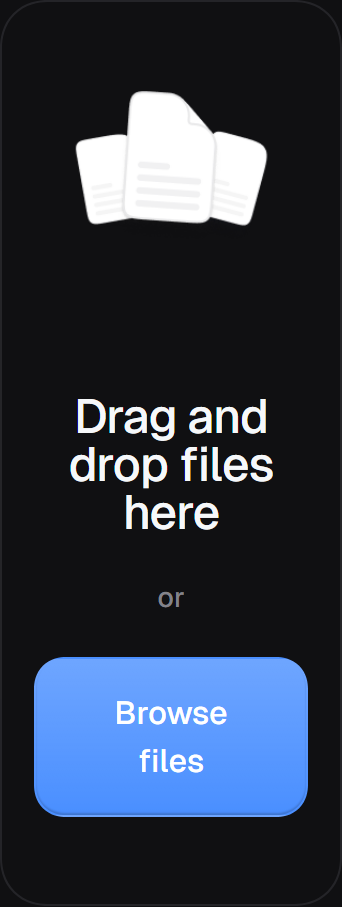
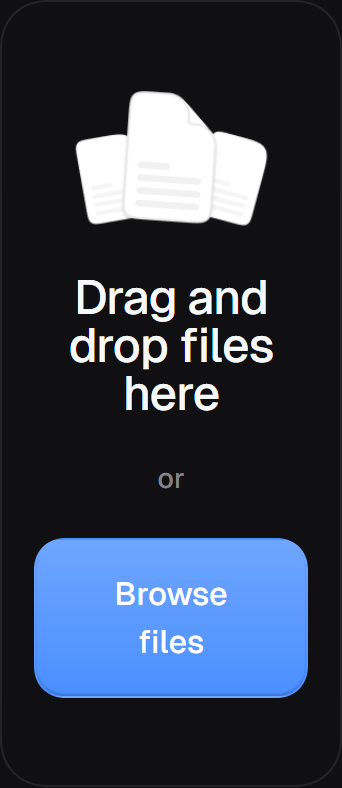
fix(file-upload): preserve selection modes and responsive artwork

Changed region(s): [[0.0877, 0.335, 0.9064, 0.8528], [0.2047, 0.0914, 0.7895, 0.3046], [0.0877, 0.8528, 0.9064, 0.9137]]

diff --git a/packages/core/src/components/file-upload/behavior.ts b/packages/core/src/components/file-upload/behavior.ts
@@ -1,9 +1,42 @@
 import * as upload from '@zag-js/file-upload';
+import {
+  getAcceptAttrString,
+  isFileEqual,
+  isValidFileSize,
+  isValidFileType,
+} from '@zag-js/file-utils';
 import type { MachineModule, SchemaOf } from '../../behaviors/types.js';
 
 export type { FileChangeDetails, FileRejectDetails, FileRejection } from '@zag-js/file-upload';
-export type FileUploadSchema = SchemaOf<upload.Service>;
+type ZagFileUploadSchema = SchemaOf<upload.Service>;
+export type FileUploadSchema = Omit<ZagFileUploadSchema, 'props'> & {
+  props: ZagFileUploadSchema['props'] & { multiple?: boolean };
+};
 export type FileUploadApi = upload.Api & { resetFiles(files: File[]): void; getFiles(): File[] };
+const directories = new WeakSet<File>();
+const fileIdentities = new WeakMap<File, number>();
+let nextFileIdentity = 0;
+function fileIdentity(file: File): number {
+  let identity = fileIdentities.get(file);
+  if (identity === undefined) {
+    identity = ++nextFileIdentity;
+    fileIdentities.set(file, identity);
+  }
+  return identity;
+}
+
+function droppedFiles(transfer: DataTransfer): File[] {
+  const items = Array.from(transfer.items).filter((item) => item.kind === 'file');
+  if (!items.length) return Array.from(transfer.files);
+  return items.flatMap((item) => {
+    const file = item.getAsFile();
+    if (!file) return [];
+    // Entry metadata distinguishes directories from legitimate empty files.
+    // No traversal or file content access is needed for this selection control.
+    if (item.webkitGetAsEntry?.()?.isDirectory) directories.add(file);
+    return [file];
+  });
+}
 
 /** Keep the browser's submitted FileList equal to the accepted selection, including
  * cancelled pickers and controlled requests the application did not accept. */
@@ -27,6 +60,7 @@ export function fileUploadMessage(errors: readonly string[]): string {
           FILE_TOO_SMALL: 'File is too small.',
           TOO_MANY_FILES: 'Too many files.',
           FILE_EXISTS: 'File is already selected.',
+          DIRECTORY_NOT_SUPPORTED: 'Folders cannot be selected. Choose files instead.',
         })[error] ?? 'File could not be selected.',
     )
     .join(' ');
@@ -70,6 +104,63 @@ export function focusFilePicker(container: ParentNode): void {
 export const fileUploadBehavior: MachineModule<FileUploadSchema, FileUploadApi> = {
   machine: {
     ...upload.machine,
+    props(params) {
+      const props = upload.machine.props?.(params);
+      if (!props) throw new Error('File Upload machine must normalize its props');
+      return {
+        ...props,
+        multiple: params.props.multiple ?? false,
+        validate(file, details) {
+          return directories.has(file)
+            ? ['DIRECTORY_NOT_SUPPORTED']
+            : (props.validate?.(file, details) ?? null);
+        },
+      };
+    },
+    computed: {
+      acceptAttr: ({ prop }) => getAcceptAttrString(prop('accept')),
+      multiple: ({ prop }) => prop('multiple') ?? false,
+    },
+    context({ prop, bindable, getContext }) {
+      return {
+        acceptedFiles: bindable(() => ({
+          defaultValue: prop('defaultAcceptedFiles'),
+          value: prop('acceptedFiles'),
+          // A replacement File may have the same metadata and different contents.
+          isEqual: (a, b) => a.length === b?.length && a.every((file, index) => file === b[index]),
+          hash: (files) => files.map(fileIdentity).join(','),
+          onChange(files) {
+            prop('onFileAccept')?.({ files });
+            prop('onFileChange')?.({
+              acceptedFiles: files,
+              rejectedFiles: getContext().get('rejectedFiles'),
+            });
+          },
+        })),
+        rejectedFiles: bindable<upload.FileRejection[]>(() => ({
+          defaultValue: [],
+          isEqual: (a, b) =>
+            a.length === b?.length &&
+            a.every(
+              (item, index) =>
+                item.file === b[index]?.file &&
+                item.errors.length === b[index]?.errors.length &&
+                item.errors.every((error, i) => error === b[index]?.errors[i]),
+            ),
+          onChange(files) {
+            prop('onFileReject')?.({ files });
+            prop('onFileChange')?.({
+              acceptedFiles: getContext().get('acceptedFiles'),
+              rejectedFiles: files,
+            });
+          },
+        })),
+        transforming: bindable(() => ({ defaultValue: false })),
+      };
+    },
+    watch({ track, context, action }) {
+      track([() => context.hash('acceptedFiles')], () => action(['syncInputElement']));
+    },
     on: {
       ...upload.machine.on,
       'LAB.RESET': { actions: ['resetSelection'] },
@@ -78,6 +169,43 @@ export const fileUploadBehavior: MachineModule<FileUploadSchema, FileUploadApi> 
       ...upload.machine.implementations,
       actions: {
         ...upload.machine.implementations?.actions,
+        setEventFiles({ context, prop, event }) {
+          const previous = context.get('acceptedFiles');
+          const accepted: File[] = [];
+          const rejected: upload.FileRejection[] = [];
+          const multiple = prop('multiple');
+          for (const file of event.files as File[]) {
+            const [, typeError] = isValidFileType(file, getAcceptAttrString(prop('accept')));
+            const [, sizeError] = isValidFileSize(file, prop('minFileSize'), prop('maxFileSize'));
+            const errors: upload.FileError[] = [];
+            if (typeError) errors.push(typeError);
+            if (sizeError) errors.push(sizeError);
+            errors.push(
+              ...(prop('validate')?.(file, {
+                acceptedFiles: previous,
+                rejectedFiles: context.get('rejectedFiles'),
+              }) ?? []),
+            );
+            if (
+              multiple &&
+              (previous.some((other) => isFileEqual(other, file)) ||
+                accepted.some((other) => isFileEqual(other, file)))
+            )
+              errors.push('FILE_EXISTS');
+            if (errors.length) rejected.push({ file, errors });
+            else accepted.push(file);
+          }
+          if (
+            (multiple ? previous.length : 0) + accepted.length >
+            (multiple ? prop('maxFiles') : 1)
+          ) {
+            rejected.push(...accepted.map((file) => ({ file, errors: ['TOO_MANY_FILES'] })));
+            accepted.length = 0;
+          }
+          if (accepted.length)
+            context.set('acceptedFiles', multiple ? [...previous, ...accepted] : accepted);
+          context.set('rejectedFiles', rejected);
+        },
         resetSelection({ context, event }) {
           context.set('acceptedFiles', event.files);
           context.set('rejectedFiles', []);
@@ -136,9 +264,7 @@ export const fileUploadBehavior: MachineModule<FileUploadSchema, FileUploadApi> 
                       if (!mutable() || !service.prop('allowDrop')) return;
                       event.preventDefault();
                       event.stopPropagation();
-                      // FileList is the standard contract for ordinary files. Entry APIs
-                      // are only necessary for directory traversal, which is not exposed.
-                      const files = Array.from(event.dataTransfer.files);
+                      const files = droppedFiles(event.dataTransfer);
                       service.send({ type: 'DROPZONE.DRAG_LEAVE' });
                       if (files.length) service.send({ type: 'FILE.SELECT', files });
                     },

diff --git a/apps/docs/tests/file-upload.spec.ts b/apps/docs/tests/file-upload.spec.ts
@@ -1,3 +1,5 @@
+import { mkdir, writeFile } from 'node:fs/promises';
+import { join } from 'node:path';
 import AxeBuilder from '@axe-core/playwright';
 import { expect, test } from '@playwright/test';
 
@@ -7,6 +9,113 @@ test.beforeEach(async ({ page }) => {
 });
 for (const renderer of ['lit', 'react'] as const) {
   const form = renderer === 'lit' ? '#lit' : '#react-form';
+  test(`${renderer}: multiple limit one appends while single selection replaces same-metadata files`, async ({
+    page,
+  }) => {
+    await page.evaluate((renderer) => {
+      const props = { multiple: true, maxFiles: 1 };
+      if (renderer === 'lit') Object.assign(window.fileUploadFixture.lit, props);
+      else window.fileUploadFixture.updateReact(props);
+    }, renderer);
+    const scope = page.locator(form);
+    const input = scope.locator('input[type=file]');
+    await input.setInputFiles({
+      name: 'first.txt',
+      mimeType: 'text/plain',
+      buffer: Buffer.from('first'),
+    });
+    await expect(scope.locator('.lab-upload-name')).toHaveText('first.txt');
+    await input.setInputFiles({
+      name: 'second.txt',
+      mimeType: 'text/plain',
+      buffer: Buffer.from('second'),
+    });
+    await expect(scope.getByRole('status').filter({ hasText: 'Too many files' })).toBeVisible();
+    await expect(scope.locator('.lab-upload-name')).toHaveText('first.txt');
+    await page.evaluate((renderer) => {
+      if (renderer === 'lit') window.fileUploadFixture.lit.multiple = false;
+      else window.fileUploadFixture.updateReact({ multiple: false });
+    }, renderer);
+    await input.setInputFiles({
+      name: 'report.txt',
+      mimeType: 'text/plain',
+      buffer: Buffer.from('A'),
+    });
+    await expect(scope.locator('.lab-upload-name')).toHaveText('report.txt');
+    const picker = page.waitForEvent('filechooser');
+    await scope.getByRole('button', { name: 'Choose File: report.txt' }).click();
+    await (await picker).setFiles({
+      name: 'report.txt',
+      mimeType: 'text/plain',
+      buffer: Buffer.from('B'),
+    });
+    await expect
+      .poll(() =>
+        scope.evaluate(async (el) => {
+          const file = new FormData(el as HTMLFormElement).get('files') as File;
+          return [file.name, file.size, await file.text()];
+        }),
+      )
+      .toEqual(['report.txt', 1, 'B']);
+  });
+  test(`${renderer}: real directory drop is rejected while an empty ordinary file is accepted`, async ({
+    page,
+    browserName,
+  }, testInfo) => {
+    test.skip(
+      browserName !== 'chromium',
+      'Real filesystem drag injection is a Chromium CDP facility.',
+    );
+    const directory = testInfo.outputPath('drop-assets');
+    await mkdir(directory, { recursive: true });
+    const emptyFile = join(directory, 'empty.txt');
+    await writeFile(emptyFile, '');
+    await page.evaluate((renderer) => {
+      const props = { accept: '', multiple: true, view: 'dropzone' as const };
+      if (renderer === 'lit') Object.assign(window.fileUploadFixture.lit, props);
+      else window.fileUploadFixture.updateReact(props);
+    }, renderer);
+    const scope = page.locator(form);
+    await scope
+      .locator('input[type=file]')
+      .setInputFiles({ name: 'notes.txt', mimeType: 'text/plain', buffer: Buffer.from('notes') });
+    await expect(scope.locator('.lab-upload-name')).toHaveText('notes.txt');
+    const session = await page.context().newCDPSession(page);
+    const surface = scope.locator('.lab-upload-surface');
+    await surface.scrollIntoViewIfNeeded();
+    const box = await surface.boundingBox();
+    if (!box) throw new Error('Missing drop surface');
+    const drop = async (file: string) => {
+      for (const type of ['dragEnter', 'dragOver', 'drop'] as const)
+        await session.send('Input.dispatchDragEvent', {
+          type,
+          x: box.x + box.width / 2,
+          y: box.y + box.height / 2,
+          data: { items: [], files: [file], dragOperationsMask: 1 },
+        });
+    };
+    await drop(directory);
+    await expect(
+      scope.getByRole('status').filter({ hasText: 'Folders cannot be selected' }),
+    ).toBeVisible();
+    await expect(scope.locator('.lab-upload-name')).toHaveText('notes.txt');
+    await drop(emptyFile);
+    await expect(scope.locator('.lab-upload-name')).toHaveText(['notes.txt', 'empty.txt']);
+    await expect
+      .poll(() =>
+        scope.evaluate((el) =>
+          Array.from(new FormData(el as HTMLFormElement).getAll('files'), (file) => [
+            (file as File).name,
+            (file as File).size,
+          ]),
+        ),
+      )
+      .toEqual([
+        ['notes.txt', 5],
+        ['empty.txt', 0],
+      ]);
+    await session.detach();
+  });
   test(`${renderer}: real picker, validation, removal and form reset`, async ({ page }) => {
     const scope = page.locator(form);
     const input = scope.locator('input[type=file]');
@@ -286,4 +395,31 @@ test('authored geometry, keyboard and narrow width in both renderers', async ({ 
     document.documentElement.style.fontSize = '32px';
   });
   expect(await page.evaluate(() => document.documentElement.scrollWidth)).toBeLessThanOrEqual(390);
+  for (const form of ['#lit', '#react-form']) {
+    const surface = page.locator(`${form} .lab-upload-surface`);
+    const artwork = surface.locator('.lab-upload-artwork');
+    const dimensions = await artwork.evaluate((element) => {
+      const box = element.getBoundingClientRect();
+      return {
+        width: box.width,
+        height: box.height,
+        bitmapHeight: Number.parseFloat(getComputedStyle(element, '::before').height),
+      };
+    });
+    expect(dimensions.width / dimensions.height).toBeCloseTo(2, 2);
+    expect(dimensions.bitmapHeight / dimensions.width).toBeCloseTo(146 / 256, 2);
+    await surface.hover();
+    const hover = await artwork.evaluate((element) => {
+      const box = element.getBoundingClientRect();
+      const style = getComputedStyle(element, '::before');
+      return {
+        height: box.height,
+        width: box.width,
+        bitmapHeight: Number.parseFloat(style.height),
+        top: Number.parseFloat(style.top),
+      };
+    });
+    expect(hover.bitmapHeight / hover.width).toBeCloseTo(180 / 256, 2);
+    expect(hover.top / hover.height).toBeCloseTo(-8.4176025390625 / 128, 3);
+  }
 });

diff --git a/packages/core/src/components/file-upload/styles.ts b/packages/core/src/components/file-upload/styles.ts
@@ -19,12 +19,12 @@ ${Object.entries(p.sizes)
 .lab-upload-empty { color:${color(p.roles.secondary)}; }
 [data-lab-file-upload] .lab-upload-surface:has(.lab-upload-trigger:hover:not(:disabled)), [data-lab-file-upload][data-view="input"] .lab-upload-surface:hover:not([data-disabled]):not(:has(input:disabled)):not([data-readonly]) { background-color:${color(p.roles.hover)}; }
 [data-lab-file-upload][data-view="dropzone"] .lab-upload-surface { min-block-size:${rem(p.area.height)}; padding:calc(${rem(p.area.paddingY)} - ${rem(p.strokeWidth)}) clamp(${rem(16)}, 8vw, ${rem(p.area.paddingX)}); gap:${rem(p.area.gap)}; border-radius:${rem(p.area.radius)}; background:${color(p.roles.background)}; }
-.lab-upload-artwork { display:block; position:relative; flex:none; inline-size:${rem(p.area.illustrationWidth)}; block-size:${rem(p.area.illustrationHeight)}; max-inline-size:100%; pointer-events:none; }
-.lab-upload-artwork::before { content:''; position:absolute; inset:0 0 auto; block-size:${rem(p.area.artwork.default.height)}; background:url('${fileUploadArtwork.default}') top center/100% auto no-repeat; }
-.lab-upload-surface:hover:not([data-disabled]):not(:has(input:disabled)):not([data-readonly]):not([data-selected]) .lab-upload-artwork::before { inset-block-start:${rem(p.area.artwork.hover.offsetY)}; block-size:${rem(p.area.artwork.hover.height)}; background-image:url('${fileUploadArtwork.hover}'); }
-.lab-upload-surface[data-selected] .lab-upload-artwork::before { block-size:${rem(p.area.artwork.selected.height)}; background-image:url('${fileUploadArtwork.selected}'); }
-.lab-upload-surface[data-dragging] .lab-upload-artwork { inline-size:${rem(p.area.dragIllustrationWidth)}; block-size:${rem(p.area.dragIllustrationHeight)}; }
-.lab-upload-surface[data-dragging] .lab-upload-artwork::before { inset-block-start:0 !important; block-size:${rem(p.area.artwork.drag.height)}; background-image:url('${fileUploadArtwork.drag}') !important; }
+.lab-upload-artwork { display:block; position:relative; flex:none; inline-size:min(100%, ${rem(p.area.illustrationWidth)}); block-size:auto; aspect-ratio:${p.area.illustrationWidth}/${p.area.illustrationHeight}; max-inline-size:100%; pointer-events:none; }
+.lab-upload-artwork::before { content:''; position:absolute; inset:0 0 auto; block-size:auto; aspect-ratio:${p.area.artwork.default.width}/${p.area.artwork.default.height}; background:url('${fileUploadArtwork.default}') top center/100% auto no-repeat; }
+.lab-upload-surface:hover:not([data-disabled]):not(:has(input:disabled)):not([data-readonly]):not([data-selected]) .lab-upload-artwork::before { inset-block-start:${(p.area.artwork.hover.offsetY / p.area.illustrationHeight) * 100}%; block-size:auto; aspect-ratio:${p.area.artwork.hover.width}/${p.area.artwork.hover.height}; background-image:url('${fileUploadArtwork.hover}'); }
+.lab-upload-surface[data-selected] .lab-upload-artwork::before { block-size:auto; aspect-ratio:${p.area.artwork.selected.width}/${p.area.artwork.selected.height}; background-image:url('${fileUploadArtwork.selected}'); }
+.lab-upload-surface[data-dragging] .lab-upload-artwork { inline-size:min(100%, ${rem(p.area.dragIllustrationWidth)}); block-size:auto; aspect-ratio:${p.area.dragIllustrationWidth}/${p.area.dragIllustrationHeight}; }
+.lab-upload-surface[data-dragging] .lab-upload-artwork::before { inset-block-start:0 !important; block-size:auto; aspect-ratio:${p.area.artwork.drag.width}/${p.area.artwork.drag.height}; background-image:url('${fileUploadArtwork.drag}') !important; }
 .lab-upload-title { margin:0; font-size:${rem(p.area.title.fontSize)}; line-height:${p.area.title.lineHeight / p.area.title.fontSize}; font-weight:${p.area.title.fontWeight}; letter-spacing:${p.area.title.letterSpacing / p.area.title.fontSize}em; text-align:center; font-feature-settings:'ss01' 1; overflow-wrap:anywhere; max-inline-size:100%; }
 .lab-upload-or, .lab-upload-label, .lab-upload-helper, .lab-upload-error, .lab-upload-remove { font-size:${rem(p.caption.fontSize)}; line-height:${p.caption.lineHeight / p.caption.fontSize}; font-weight:${p.caption.fontWeight}; letter-spacing:${p.caption.letterSpacing / p.caption.fontSize}em; }
 .lab-upload-or, .lab-upload-helper { color:${color(p.roles.secondary)}; }

diff --git a/packages/core/src/components/file-upload/lab-file-upload.ts b/packages/core/src/components/file-upload/lab-file-upload.ts
@@ -115,6 +115,7 @@ export class LabFileUpload extends LabElement {
       },
       accept: this.accept || undefined,
       maxFiles: this.multiple ? this.maxFiles : 1,
+      multiple: this.multiple,
       minFileSize: this.minFileSize,
       maxFileSize: this.maxFileSize,
       acceptedFiles: this.acceptedFiles ?? undefined,

diff --git a/packages/react/src/file-upload.tsx b/packages/react/src/file-upload.tsx
@@ -100,6 +100,7 @@ export function FileUpload({
     ids: { hiddenInput: ids.control, label: ids.label },
     accept,
     maxFiles: multiple ? maxFiles : 1,
+    multiple,
     minFileSize,
     maxFileSize,
     acceptedFiles,

diff --git a/docs/reference/file-upload.md b/docs/reference/file-upload.md
@@ -40,8 +40,11 @@ the same shape as React's `onFileChange` and `onFileReject`.
 Click the field, filename or Browse files button to open the real system picker.
 The area also accepts dropped files. Remove clears a file. Cancelling the picker
 keeps the accepted selection. A single-file field replaces its existing file;
-multiple selection appends distinct files. Duplicate files and a batch that exceeds
-`maxFiles` are rejected without losing the accepted selection. Errors are announced
+multiple selection appends distinct files, including when `maxFiles` is one.
+In multiple mode, duplicate files and a batch that exceeds `maxFiles` are rejected
+without losing the accepted selection. Single mode accepts a replacement with the
+same name, size and type, because its contents may differ. Directory drops produce
+an explicit rejection; ordinary empty files remain valid. Errors are announced
 and displayed by the field. `accept` follows native extension/MIME syntax; it is
 client validation, and the receiving service must validate its own inputs.
 
@@ -74,6 +77,8 @@ picker. See the [Compose API and platform contracts](../../native/compose/docs/f
 `scripts/generate-file-upload-artwork.mjs` creates embedded web asset URLs and
 copies PNG resources for Compose. Exports include shadow overflow; their intrinsic
 size and measured offset are retained rather than fitted into the layout frame.
+When available width shrinks, the layout frame retains its 2:1 aspect ratio;
+bitmap overflow and the hover offset scale with that same frame.
 The illustrations change for default, hover, dragging and selected states. The
 empty disabled area omits the illustration, as authored.
 PNG exports retain transparency (`contentsOnly: true`); the original export helper

diff --git a/docs/evidence/file-upload-20261123/README.md b/docs/evidence/file-upload-20261123/README.md
@@ -13,12 +13,16 @@ the source to support a complete selection workflow.
 
 ## Results
 
-- `file-upload.spec.ts`: 24 passing scenarios across Chromium and WebKit. Both
+- `file-upload.spec.ts`: 30 passing scenarios across Chromium and WebKit. Both
   renderers open the real file chooser, preserve accepted `FormData` on rejection
   and cancel, support controlled refusal, native/external forms, disabled
   fieldsets, read-only values, required validation, reset cancellation, file drop,
   duplicates, limits and keyboard focus after removal. Scoped axe checks pass for
   both views in both themes.
+  Real filesystem folder drop via Chromium CDP is rejected while a real empty
+  file is accepted; these two tests skip WebKit, which has no CDP facility. The
+  suite also covers multiple selection with a limit of one, same-metadata single
+  replacement, and scaled layout/artwork/hover geometry at narrow 200% text size.
 - `file-upload-ssr.test.ts` and `file-upload-ssr.test.mjs`: three passing SSR tests.
   Local File objects cannot be serialized through the Lit JSON hydration boundary.
 - `packed.json`: seven local LabUI tarballs plus the recorded Icons 0.4 artifact
